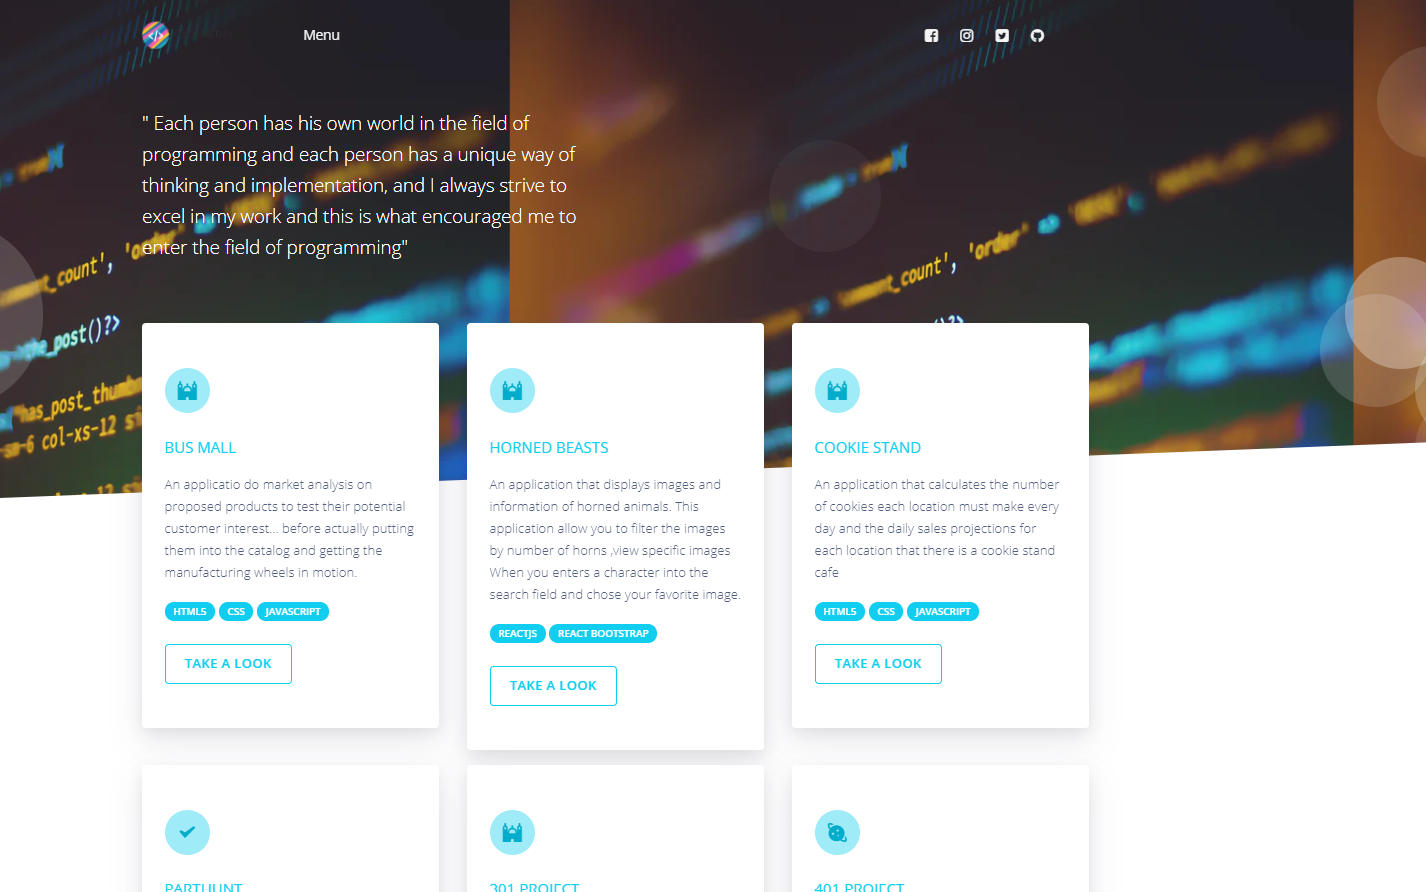
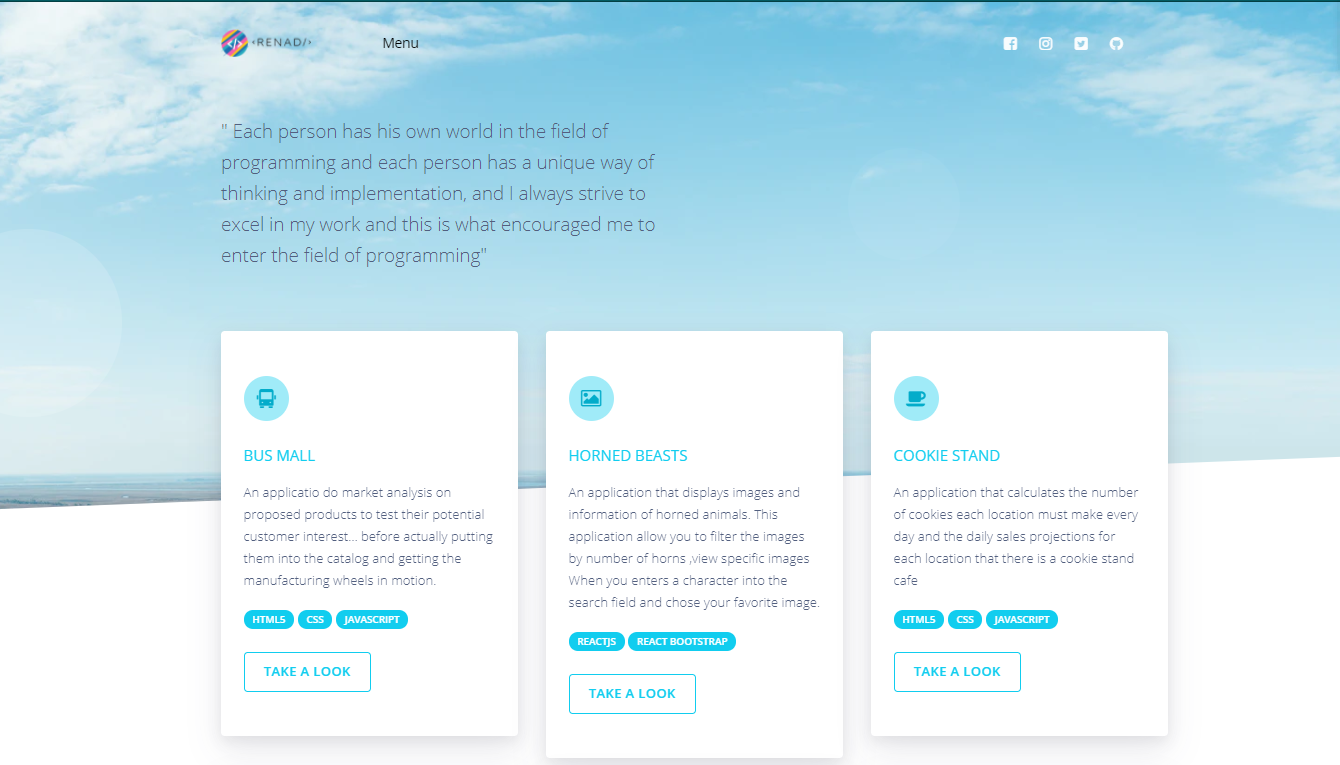
portfolio v3

diff --git a/src/views/examples/Landing.js b/src/views/examples/Landing.js
@@ -56,7 +56,7 @@ class Landing extends React.Component {
           <div className="position-relative">
             {/* shape Hero */}
             <section className="section section-lg section-shaped pb-250">
-              <div className="shape shape-style-1 shape-primary" style={{backgroundImage:'url(https://images.unsplash.com/photo-1555949963-ff9fe0c870eb?ixid=MnwxMjA3fDB8MHxzZWFyY2h8MTB8fHByb2dyYW1taW5nfGVufDB8fDB8fA%3D%3D&ixlib=rb-1.2.1&auto=format&fit=crop&w=900&q=60)'}}>
+              <div className="shape shape-style-1 shape-primary" style={{backgroundImage:'url(https://images.unsplash.com/photo-1615578843118-d3f321b541e3?ixid=MnwxMjA3fDB8MHxwaG90by1wYWdlfHx8fGVufDB8fHx8&ixlib=rb-1.2.1&auto=format&fit=crop&w=2052&q=80)',backgroundSize: "cover", backgroundRepeat: "no-repeat"}}>
                 <span />
                 <span />
                 <span />
@@ -71,7 +71,7 @@ class Landing extends React.Component {
                 <div className="col px-0">
                   <Row>
                     <Col lg="6">
-                      <p className="lead text-white">
+                      <p className="lead text-black">
                         " Each person has his own world in the field of programming and each person has a unique way of thinking and implementation, and I always strive to excel in my work and this is what encouraged me to enter the field of programming"
                       </p>
                     </Col>
@@ -106,7 +106,7 @@ class Landing extends React.Component {
                       <Card className="card-lift--hover shadow border-0 mb-3">
                         <CardBody className="py-5">
                           <div className="icon icon-shape icon-shape-info rounded-circle mb-4">
-                            <i className="ni ni-istanbul" />
+                            <i className="ni ni-bus-front-12" />
                           </div>
                           <h6 className="text-info text-uppercase">
                             Bus Mall
@@ -128,7 +128,9 @@ class Landing extends React.Component {
                           <Button outline
                             className="mt-4"
                             color="info"
-                            href="https://bus-mall.netlify.app"  
+                            href="https://bus-mall.netlify.app"
+                            target="_blank"
+  
                           >
                             Take A look
 
@@ -140,7 +142,7 @@ class Landing extends React.Component {
                       <Card className="card-lift--hover shadow border-0 mb-3">
                         <CardBody className="py-5">
                           <div className="icon icon-shape icon-shape-info rounded-circle mb-4">
-                            <i className="ni ni-istanbul" />
+                            <i className="fa fa-picture-o" />
                           </div>
                           <h6 className="text-info text-uppercase">
                             Horned Beasts
@@ -162,6 +164,7 @@ class Landing extends React.Component {
                             className="mt-4"
                             color="info"
                             href="https://re-horned-beasts.netlify.app"
+                            target="_blank"
                           >
                             Take A look
 
@@ -173,7 +176,7 @@ class Landing extends React.Component {
                       <Card className="card-lift--hover shadow border-0">
                         <CardBody className="py-5">
                           <div className="icon icon-shape icon-shape-info rounded-circle mb-4">
-                            <i className="ni ni-istanbul" />
+                            <i className="fa fa-coffee" />
                           </div>
                           <h6 className="text-info text-uppercase">
                             Cookie Stand
@@ -196,6 +199,7 @@ class Landing extends React.Component {
                             className="mt-4"
                             color="info"
                             href="https://cookie-stand.netlify.app"
+                            target="_blank"
                           >
                             Take A look
                           </Button>
@@ -206,7 +210,7 @@ class Landing extends React.Component {
                       <Card className="card-lift--hover shadow border-0">
                         <CardBody className="py-5">
                           <div className="icon icon-shape icon-shape-info rounded-circle mb-4">
-                            <i className="ni ni-check-bold" />
+                            <i className="fa fa-briefcase" />
                           </div>
                           <h6 className="text-info text-uppercase">
                             PartHunt
@@ -229,6 +233,7 @@ class Landing extends React.Component {
                             className="mt-4"
                             color="info"
                             href="https://vteam-201.github.io/PartHunt/"
+                            target="_blank"
                            
                           >
                             Take A look
@@ -265,6 +270,7 @@ class Landing extends React.Component {
                             className="mt-4"
                             color="info"
                             href="#pablo"
+                            target="_blank"
                            
                           >
                             Take A look
@@ -301,7 +307,7 @@ class Landing extends React.Component {
                             className="mt-4"
                             color="info"
                             href="#pablo"
-                          
+                            target="_blank"
                           >
                             Take A look
                           </Button>

diff --git a/src/components/Navbars/DemoNavbar.js b/src/components/Navbars/DemoNavbar.js
@@ -115,7 +115,7 @@ class DemoNavbar extends React.Component {
                   <UncontrolledDropdown nav>
                     <DropdownToggle nav>
                       <i className="ni ni-collection d-lg-none mr-1" />
-                      <span className="nav-link-inner--text">Menu</span>
+                      <span className="nav-link-inner--text" style={{color:"black"}}>Menu</span>
                     </DropdownToggle>
                     <DropdownMenu>
                       <DropdownItem to="/profile-page" tag={Link}>
@@ -139,7 +139,7 @@ class DemoNavbar extends React.Component {
                       target="_blank"
                     >
                       <i className="fa fa-facebook-square" />
-                      <span className="nav-link-inner--text d-lg-none ml-2">
+                      <span className="nav-link-inner--text d-lg-none ml-2" >
                         Facebook
                       </span>
                     </NavLink>

diff --git a/src/views/examples/Profile.js b/src/views/examples/Profile.js
@@ -38,7 +38,7 @@ class Profile extends React.Component {
         <main className="profile-page" ref="main">
           <section className="section-profile-cover section-shaped my-0">
             {/* Circles background */}
-            <div className="shape shape-style-1 shape-default alpha-4" style={{backgroundImage:"url(https://images.unsplash.com/photo-1555949963-ff9fe0c870eb?ixid=MnwxMjA3fDB8MHxzZWFyY2h8MTB8fHByb2dyYW1taW5nfGVufDB8fDB8fA%3D%3D&ixlib=rb-1.2.1&auto=format&fit=crop&w=900&q=60)"}}>
+            <div className="shape shape-style-1 shape-default alpha-4"  style={{backgroundImage:'url(https://images.unsplash.com/photo-1615578843118-d3f321b541e3?ixid=MnwxMjA3fDB8MHxwaG90by1wYWdlfHx8fGVufDB8fHx8&ixlib=rb-1.2.1&auto=format&fit=crop&w=2052&q=80)',backgroundSize: "cover", backgroundRepeat: "no-repeat"}}>
               <span />
               <span />
               <span />

diff --git a/public/index.html b/public/index.html
@@ -42,7 +42,7 @@
       href="https://fonts.googleapis.com/css?family=Open+Sans:300,400,600,700"
       rel="stylesheet"
     />
-    <title>Argon Design System React by Creative Tim</title>
+    <title>Renad Al-khlafat Portfolio</title>
   </head>
   <body>
     <noscript> You need to enable JavaScript to run this app. </noscript>
